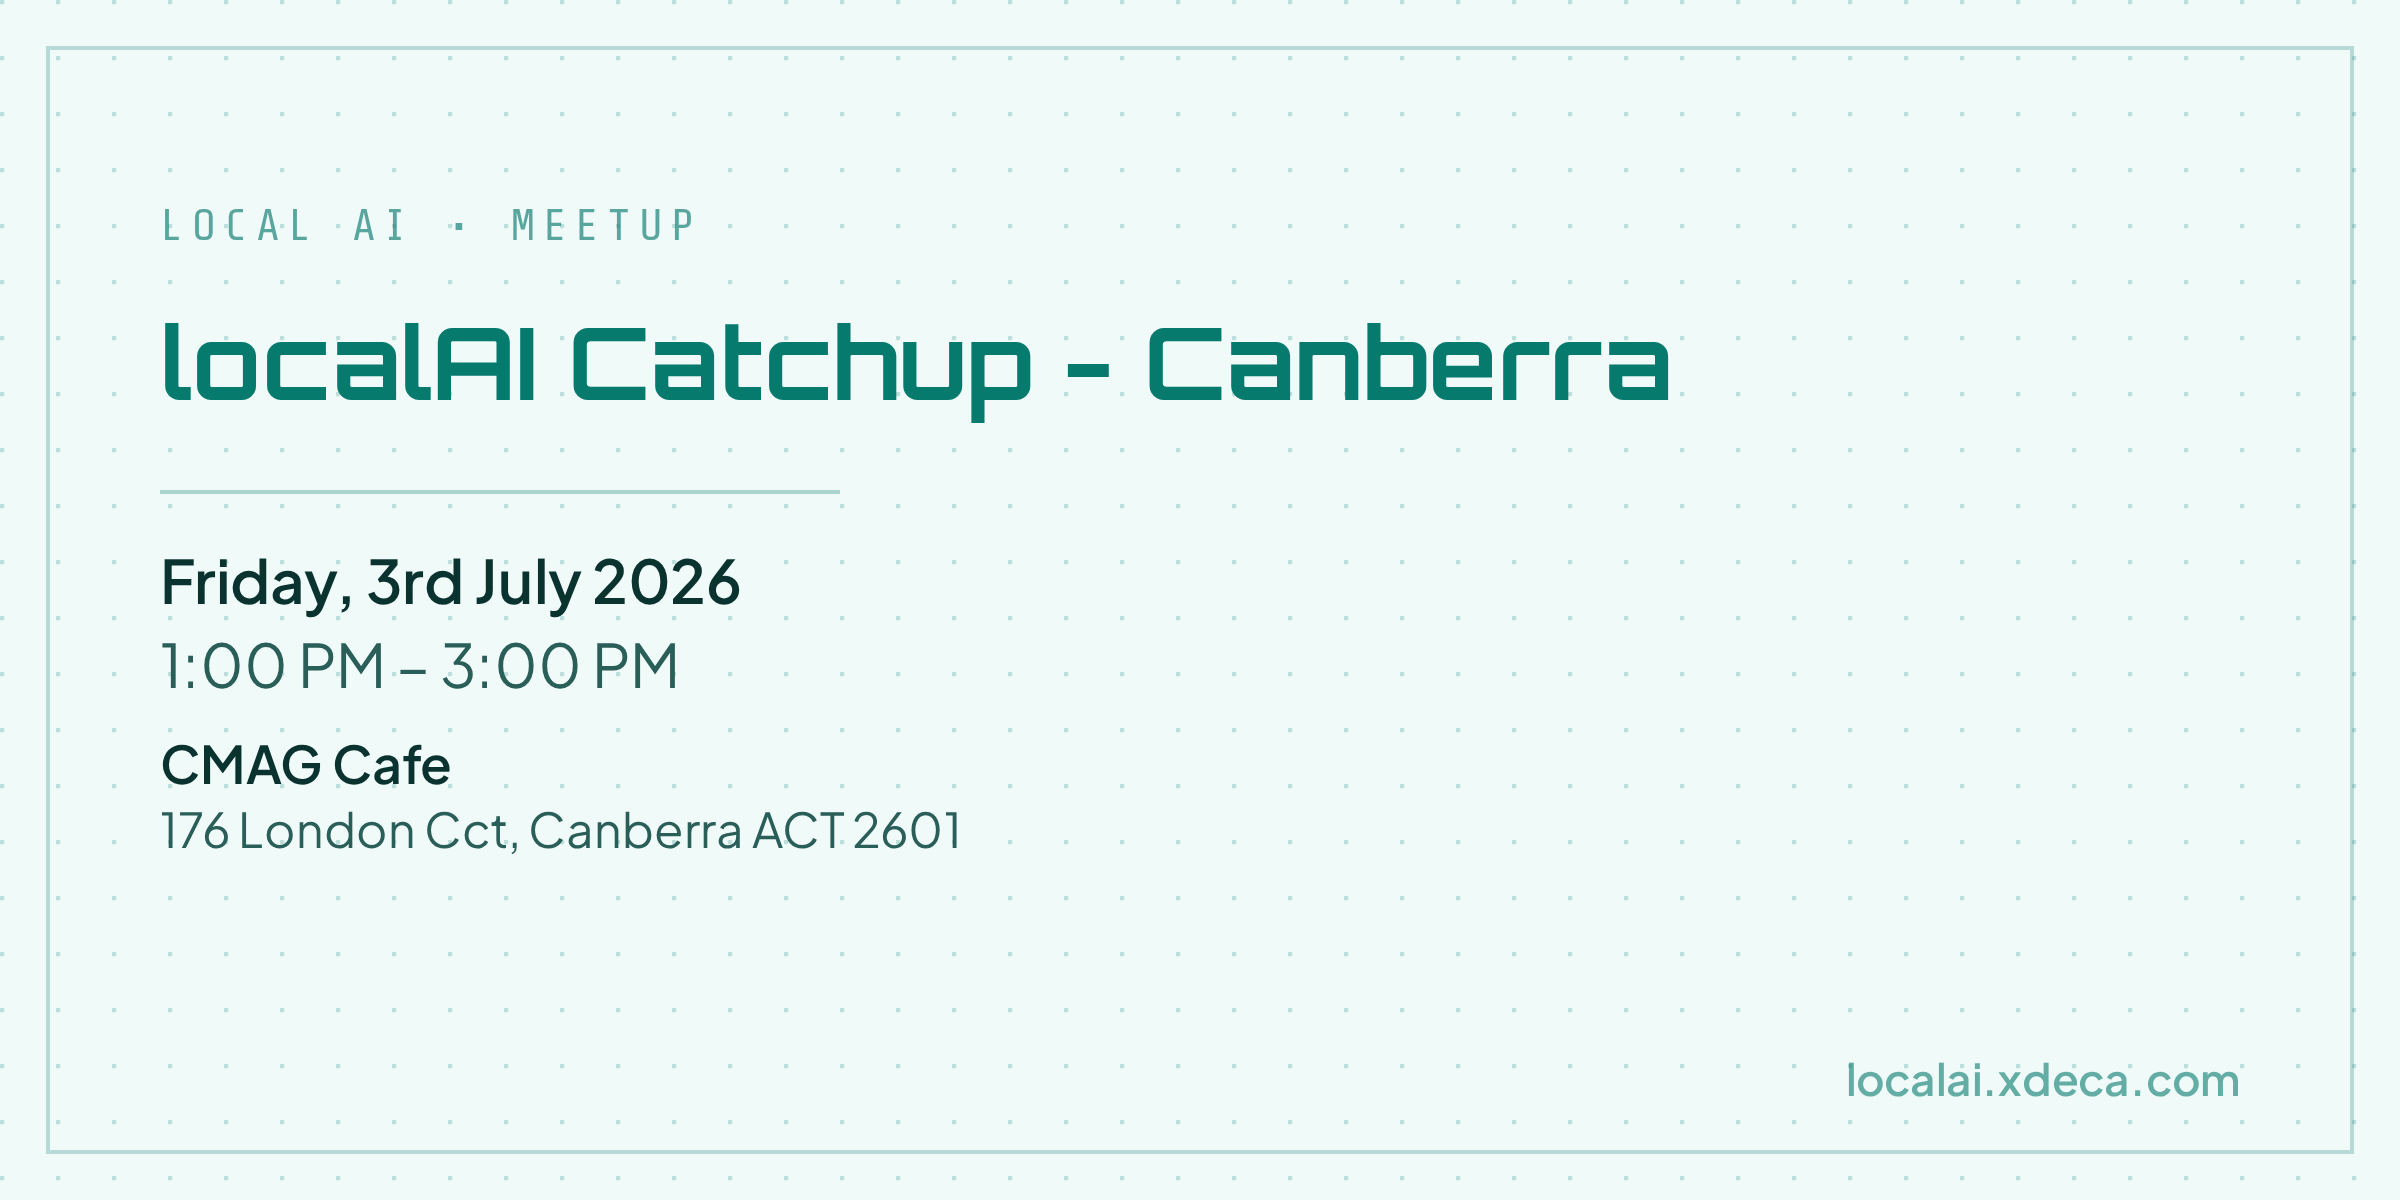
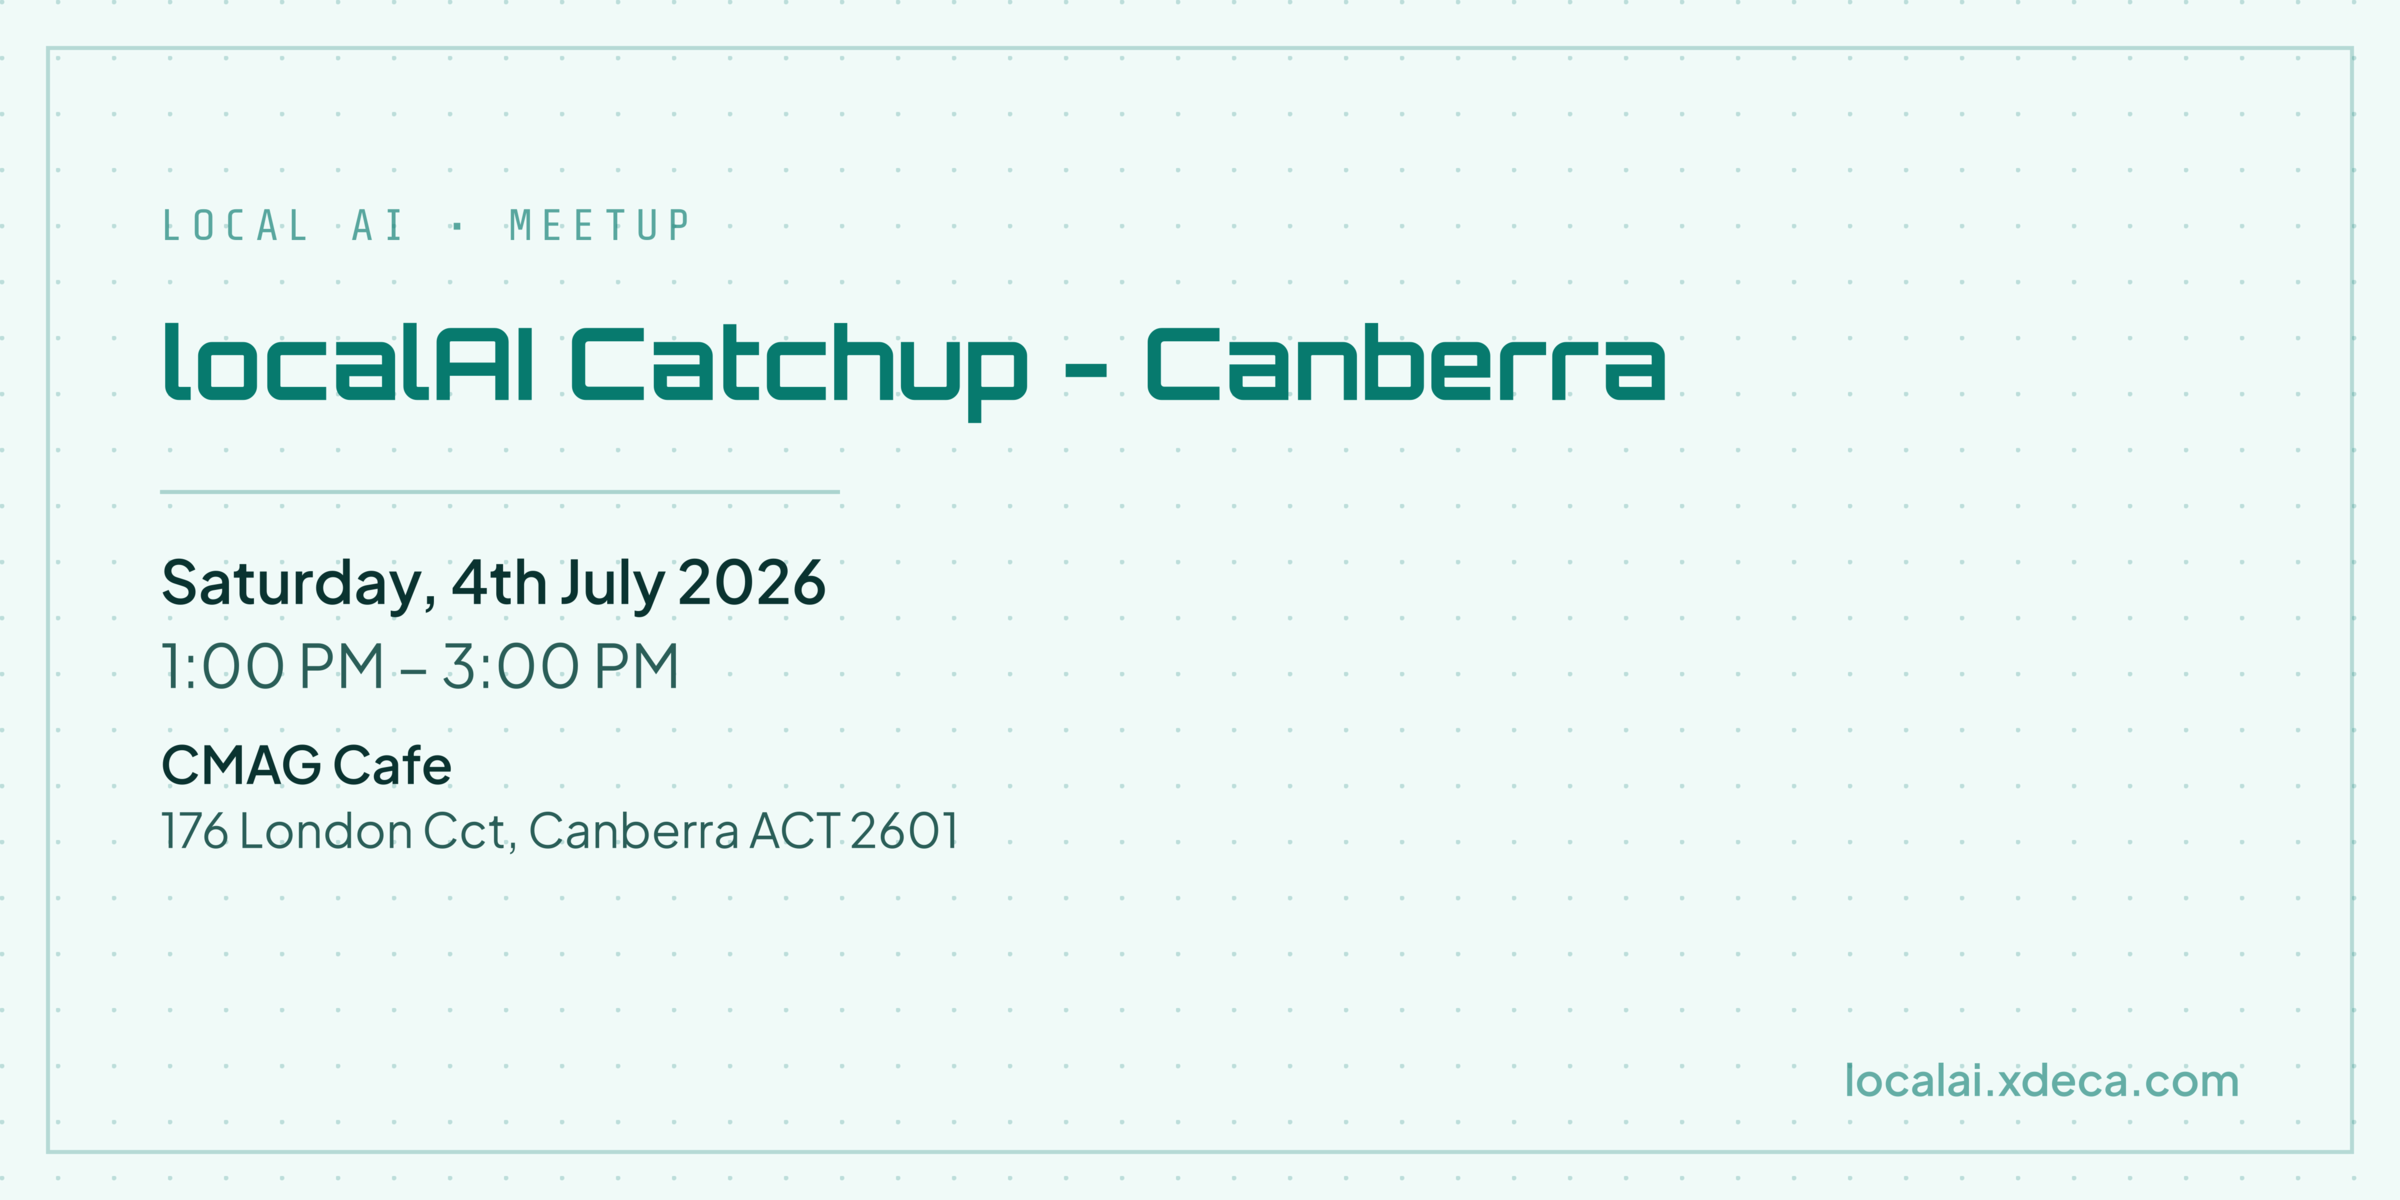
Posts canberra catchup recap

diff --git a/src/assets/css/styles.css b/src/assets/css/styles.css
@@ -55,6 +55,8 @@
   --color-resources-rgb: 26, 95, 180;
   --color-chat: #6d28d9;
   --color-chat-rgb: 109, 40, 217;
+  --color-orange: #ea580c;
+  --color-orange-rgb: 234, 88, 12;
 }
 
 /* ─────────────────────────────────────────────────
@@ -106,6 +108,8 @@
   --color-resources-rgb: 96, 165, 250;
   --color-chat: #a78bfa;
   --color-chat-rgb: 167, 139, 250;
+  --color-orange: #fb923c;
+  --color-orange-rgb: 251, 146, 60;
 }
 
 /* ─────────────────────────────────────────────────
@@ -1830,6 +1834,24 @@ h1, h2, h3, h4, h5, h6,
   border: 1px solid var(--color-border);
 }
 
+.cosmos-badge--events {
+  background: rgba(var(--color-events-rgb), 0.1);
+  color: var(--color-events);
+  border: 1px solid rgba(var(--color-events-rgb), 0.18);
+}
+
+.cosmos-badge--resources {
+  background: rgba(var(--color-resources-rgb), 0.1);
+  color: var(--color-resources);
+  border: 1px solid rgba(var(--color-resources-rgb), 0.18);
+}
+
+.cosmos-badge--orange {
+  background: rgba(var(--color-orange-rgb), 0.1);
+  color: var(--color-orange);
+  border: 1px solid rgba(var(--color-orange-rgb), 0.18);
+}
+
 /* ─────────────────────────────────────────────────
    EVENT CARDS
 ───────────────────────────────────────────────── */
@@ -2013,6 +2035,58 @@ h1, h2, h3, h4, h5, h6,
   margin-top: auto;
 }
 .cosmos-post-card__link:hover { gap: 0.65rem; color: var(--color-primary-dark); }
+
+.cosmos-recap-preview {
+  display: flex;
+  align-items: stretch;
+  gap: 1.25rem;
+  background: var(--color-surface-raised);
+  border: 1px solid var(--color-border);
+  text-decoration: none;
+  overflow: hidden;
+  transition: border-color 0.25s ease;
+  position: relative;
+}
+
+.cosmos-recap-preview::before {
+  content: '';
+  position: absolute;
+  top: 0; left: 0;
+  width: 30px; height: 1px;
+  background: var(--color-events);
+  z-index: 1;
+}
+
+.cosmos-recap-preview:hover { border-color: rgba(var(--color-primary-rgb), 0.45); }
+
+.cosmos-recap-preview__image { width: 160px; min-width: 160px; object-fit: cover; }
+
+.cosmos-recap-preview__body { padding: 1.25rem 1.5rem; display: flex; flex-direction: column; align-items: flex-start; }
+
+.cosmos-recap-preview__title {
+  font-family: 'Plus Jakarta Sans', sans-serif;
+  font-size: 1.1rem;
+  font-weight: 500;
+  color: var(--color-text);
+  margin: 0 0 0.4rem;
+}
+
+.cosmos-recap-preview__desc {
+  font-size: 0.95rem;
+  color: var(--color-text-muted);
+  line-height: 1.55;
+  margin-bottom: 0.5rem;
+}
+
+.cosmos-recap-preview__link {
+  display: inline-flex;
+  align-items: center;
+  gap: 0.4rem;
+  font-size: 0.875rem;
+  font-weight: 500;
+  color: var(--color-primary);
+  font-family: 'Plus Jakarta Sans', sans-serif;
+}
 
 .cosmos-focus-card {
   display: flex;

diff --git a/.eleventy.js b/.eleventy.js
@@ -377,13 +377,34 @@ module.exports = function (eleventyConfig) {
       .sort((a, b) => b.date - a.date);
   });
 
+  // Recent activity - past events and posts mixed together, sorted by date (most recent first)
+  eleventyConfig.addCollection("recentActivity", function (collectionApi) {
+    const now = dayjs().tz(SITE_TIMEZONE);
+
+    const pastEvents = collectionApi.getFilteredByGlob("src/events/*.md")
+      .filter(e => {
+        const endDateTime = getEventEndDateTime(e);
+        return endDateTime && endDateTime.isSameOrBefore(now);
+      })
+      .map(e => ({ type: 'event', date: new Date(e.data.eventDate), item: e }));
+
+    const posts = collectionApi.getFilteredByGlob("src/posts/*.md")
+      .map(p => ({ type: 'post', date: new Date(p.data.postDate), item: p }));
+
+    return [...pastEvents, ...posts]
+      .sort((a, b) => b.date - a.date)
+      .slice(0, 3);
+  });
+
   // Date formatting filter - uses site.json dateFormat as default
   eleventyConfig.addFilter("formatDate", function (dateInput, format) {
     if (!dateInput) return '';
     try {
       // Use provided format, or fall back to site default
+      // Parse as UTC so plain calendar dates (e.g. "2026-07-04") don't shift
+      // to the previous/next day when the build machine's local timezone differs from UTC.
       const dateFormat = format || DEFAULT_DATE_FORMAT;
-      const parsed = dayjs(dateInput);
+      const parsed = dayjs.utc(dateInput);
       return parsed.isValid() ? parsed.format(dateFormat) : String(dateInput);
     } catch (err) {
       console.warn(`Error formatting date: ${dateInput} - ${err.message}`);

diff --git a/src/posts/localai-catchup-canberra-recap.md b/src/posts/localai-catchup-canberra-recap.md
@@ -1,0 +1,21 @@
+---
+title: Canberra Catchup Recap
+description: Thanks to everyone who came along to our first Canberra meetup, here's a quick recap of the afternoon.
+postDate: 2026-07-07
+author: localAI Team
+image: /assets/images/posts/localai-catchup-canberra-recap.png
+ogImage: /assets/images/posts/localai-catchup-canberra-recap.png
+eventPage: /events/localai-catchup-canberra/
+gallery: /assets/images/gallery/localai-catchup-canberra
+mergeGallery: true
+---
+
+Thanks to everyone who came along to our first localAI catchup in Canberra! It was a relaxed afternoon at CMAG Cafe, with a good mix of people working across open source AI, edge computing, and everything in between.
+
+The conversation ranged wide, from the EU AI Act and the rising cost of hardware, through to real world examples of running things locally and efficiently. There was plenty of energy around finding a shared language so future conversations can build on top of what's already been said, rather than starting from scratch each time.
+
+One attendee, Balaji, was inspired enough by the "model farming" idea to write up [his own take on it on LinkedIn](https://www.linkedin.com/posts/balaji-bikshandi-5bb870358_localai-opensourceai-edgecomputing-share-7479344347428073472-s9uS/), well worth a read if decentralized, on-premises AI is your thing.
+
+There was also chatter about running a hands on workshop at CU to demo model farming in practice, so keep an eye out for that.
+
+See you at the next one! We're looking at making it a talk or a workshop in Melbourne. Make sure to [subscribe on Luma](https://lu.ma/localai) or [join the chat](/community/) to keep up to date.

diff --git a/src/posts/template.md b/src/posts/template.md
@@ -1,6 +1,8 @@
 ---
 title: Post Template
 description: Want to create a new post? Use this template!
+eleventyExcludeFromCollections: true
+permalink: false
 postDate: 3099-04-14
 author: S.Allen
 # gallery: "/assets/images"

diff --git a/src/events/localai-catchup-canberra.md b/src/events/localai-catchup-canberra.md
@@ -7,6 +7,7 @@ endTime: 3:00 PM
 location: "CMAG Cafe\n176 London Cct, Canberra ACT 2601"
 image: /assets/images/events/localai-catchup-canberra.svg
 ogImage: /assets/images/events/localai-catchup-canberra.png
+recapPost: /posts/localai-catchup-canberra-recap/
 ---
 
 ### {{title}}